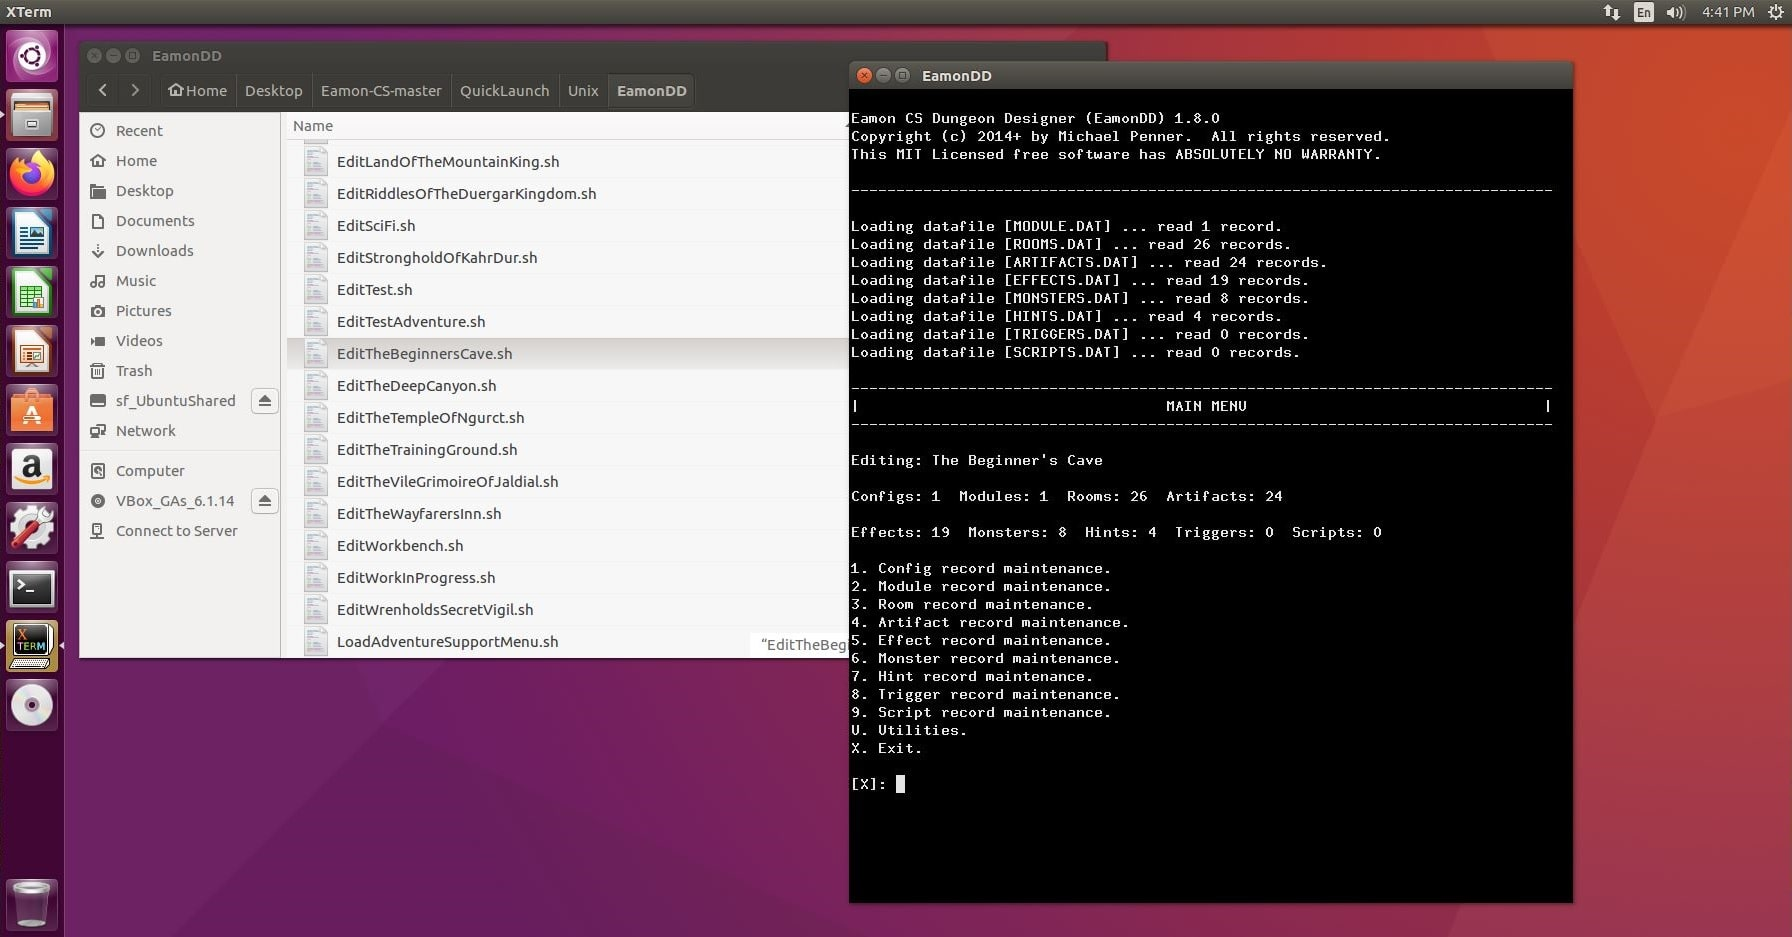
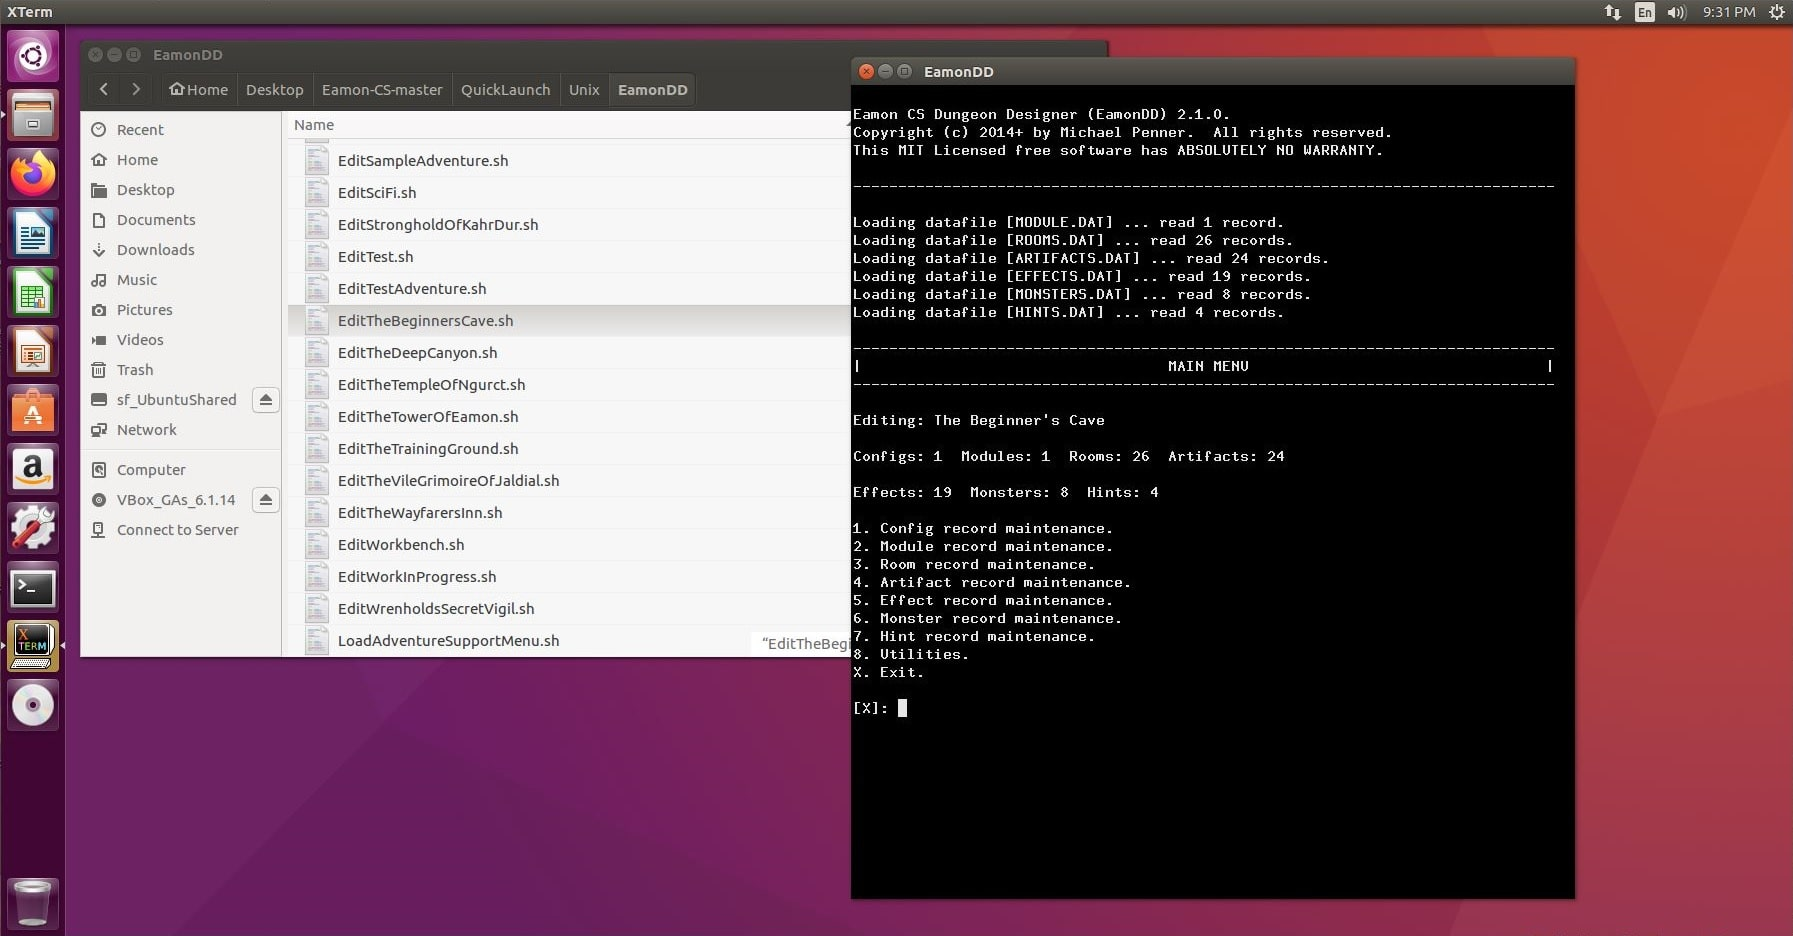
Eamon/work branch sep 2022 (#20)
* Updated VisualStudioInfo.html with new Visual Studio 2022 version 17.3.2.

* Revised TechnicalPaper.html to reflect .NET 6.0 Runtime upgrade to v6.0.8.

* Minor revision to PlayersManual.html file.

* Updated VisualStudioInfo.html with new Visual Studio 2022 version 17.3.3.

* Updated VisualStudioInfo.html with new Visual Studio 2022 version 17.3.4.

* Rolled back work on TRIGGERS and SCRIPTS.  This interesting thought experiment never crystallized and would require far more effort than reasonable given the possible benefits.  Anyone who might have taken advantage of this hypothetical functionality could implement a custom game to obtain all its benefits (and then some).  So the idea is being scrapped.

* Minor revision to Dungeon Designer's Manual.

* Recreated snapshot images to bring them up to date.

* Recreated snapshot images to bring them up to date.

* Recreated snapshot images to bring them up to date.

diff --git a/pages/VisualStudioInfo.html b/pages/VisualStudioInfo.html
@@ -8,20 +8,20 @@
        <h4>VISUAL STUDIO INFORMATION</h4>
        <pre>
 Microsoft Visual Studio Community 2022
-Version 17.2.6
-VisualStudio.17.Release/17.2.6+32630.192
+Version 17.3.4
+VisualStudio.17.Release/17.3.4+32901.215
 Microsoft .NET Framework
 Version 4.8.04084
 
 Installed Version: Community
 
-ASP.NET and Web Tools 2019   17.2.393.26812
-ASP.NET and Web Tools 2019
+ASP.NET and Web Tools   17.3.376.3011
+ASP.NET and Web Tools
 
-Azure App Service Tools v3.0.0   17.2.393.26812
+Azure App Service Tools v3.0.0   17.3.376.3011
 Azure App Service Tools v3.0.0
 
-C# Tools   4.2.0-4.22281.5+8d3180e5f00d42f0f0295165f756f368f0cbfa44
+C# Tools   4.3.0-3.22423.10+b35bb0baca1071d50cc4f8cf5a1a89e7cc112461
 C# components used in the IDE. Depending on your project type and settings, a different version of the compiler may be used.
 
 Common Azure Tools   1.10
@@ -33,19 +33,22 @@ Provides common messaging-based MEF services for loosely coupled Visual Studio e
 Microsoft JVM Debugger   1.0
 Provides support for connecting the Visual Studio debugger to JDWP compatible Java Virtual Machines
 
-Mono Debugging for Visual Studio   17.2.20 (482eb2a)
+Mono Debugging for Visual Studio   17.3.20 (3f4cb00)
 Support for debugging Mono processes with Visual Studio.
 
-NuGet Package Manager   6.2.1
+NuGet Package Manager   6.3.0
 NuGet Package Manager in Visual Studio. For more information about NuGet, visit https://docs.nuget.org/
 
-TypeScript Tools   17.0.10418.2001
+Razor (ASP.NET Core)   17.0.0.2232702+e1d654e792aa2fe6646a6935bcca80ff0aff4387
+Provides languages services for ASP.NET Core Razor.
+
+TypeScript Tools   17.0.10701.2001
 TypeScript Tools for Microsoft Visual Studio
 
-Visual Basic Tools   4.2.0-4.22281.5+8d3180e5f00d42f0f0295165f756f368f0cbfa44
+Visual Basic Tools   4.3.0-3.22423.10+b35bb0baca1071d50cc4f8cf5a1a89e7cc112461
 Visual Basic components used in the IDE. Depending on your project type and settings, a different version of the compiler may be used.
 
-Visual F# Tools   17.1.0-beta.22329.1+702b8e77f5fbfe21e6743324c1750503e02f182d
+Visual F# Tools   17.1.0-beta.22363.4+1b94f89d4d1f41f20f9be73c76f4b229d4e49078
 Microsoft Visual F# Tools
 
 Visual Studio IntelliCode   2.2
@@ -60,25 +63,24 @@ Mac Extension for Visual Studio
 VSPackage Extension   1.0
 VSPackage Visual Studio Extension Detailed Info
 
-Xamarin   17.2.0.177 (d17-2@2f6c881)
+Xamarin   17.3.0.296 (d17-3@a0ff24b)
 Visual Studio extension to enable development for Xamarin.iOS and Xamarin.Android.
 
-Xamarin Designer   17.2.0.244 (remotes/origin/d17-2@197e1a0b7)
+Xamarin Designer   17.3.0.208 (remotes/origin/d17-3@e4f67afef)
 Visual Studio extension to enable Xamarin Designer tools in Visual Studio.
 
-Xamarin Templates   17.2.15 (2e3b60e)
+Xamarin Templates   17.2.28 (9b3d244)
 Templates for building iOS, Android, and Windows apps with Xamarin and Xamarin.Forms.
 
-Xamarin.Android SDK   12.3.3.3 (d17-2/4e061b7)
+Xamarin.Android SDK   13.0.0.0 (d17-3/030cd63)
 Xamarin.Android Reference Assemblies and MSBuild support.
     Mono: dffa5ab
-    Java.Interop: xamarin/java.interop/d17-2@9760f0a9
-    ProGuard: Guardsquare/proguard/v7.0.1@912d149
-    SQLite: xamarin/sqlite/3.38.2@7b1e016
-    Xamarin.Android Tools: xamarin/xamarin-android-tools/d17-2@fc3c2ac
+    Java.Interop: xamarin/java.interop/d17-3@7716ae53
+    SQLite: xamarin/sqlite/3.38.5@df4deab
+    Xamarin.Android Tools: xamarin/xamarin-android-tools/main@14076a6
 
 
-Xamarin.iOS and Xamarin.Mac SDK   15.10.0.5 (96b3edb6d)
+Xamarin.iOS and Xamarin.Mac SDK   15.12.0.2 (87f98a75e)
 Xamarin.iOS and Xamarin.Mac Reference Assemblies and MSBuild support.
         </pre>
        <h4>UPGRADING VISUAL STUDIO</h4>

diff --git a/pages/TechnicalPaper/TechnicalPaper.html b/pages/TechnicalPaper/TechnicalPaper.html
@@ -75,7 +75,7 @@
           <li>Installer option: Mobile development with .NET</li>
        </ul>
        <p>For gamers who want to play:</p>
-       <a target="_blank" href="https://dotnet.microsoft.com/en-us/download/dotnet/thank-you/runtime-6.0.7-windows-x64-installer">Microsoft .NET 6 Runtime</a>
+       <a target="_blank" href="https://dotnet.microsoft.com/en-us/download/dotnet/thank-you/runtime-6.0.9-windows-x64-installer">Microsoft .NET 6 Runtime</a>
        <p>
           Note:&nbsp; If you want to use Eamon CS with a .NET Standard 2.0 compliant runtime already on your system (that isn't .NET 6.X), see the Post-Installation Topics section for details on how to do that.
        </p>
@@ -924,18 +924,6 @@
                 <td>Hint File Name<br /></td>
                 <td>Loads a datafile with the given name containing Hint records; it is assumed empty if it doesn't exist. If the -wd flag is used, the datafile loads and saves in that directory.<br /></td>
                 <td>-hfn CLEVER_HINTS.DAT<br /></td>
-             </tr>
-             <tr>
-                <td>-trgfn [File Name]<br /></td>
-                <td>Trigger File Name<br /></td>
-                <td>Loads a datafile with the given name containing Trigger records; it is assumed empty if it doesn't exist. If the -wd flag is used, the datafile loads and saves in that directory.<br /></td>
-                <td>-trgfn TRIGGERS.DAT<br /></td>
-             </tr>
-             <tr>
-                <td>-sfn [File Name]<br /></td>
-                <td>Script File Name<br /></td>
-                <td>Loads a datafile with the given name containing Script records; it is assumed empty if it doesn't exist. If the -wd flag is used, the datafile loads and saves in that directory.<br /></td>
-                <td>-sfn SCRIPTS.DAT<br /></td>
              </tr>
              <tr>
                 <td>-gsfn [File Name]<br /></td>

diff --git a/pages/PlayersManual/PlayersManual.html b/pages/PlayersManual/PlayersManual.html
@@ -189,8 +189,8 @@
             The C# programming language seemed like the next logical step for development. Work on Eamon CS (ECS) kicked off in mid-2015, and it formally debuted in early 2017. Building ECS on this platform can potentially help it avoid the fate
             of many older Eamons. The system sits in the .NET slipstream, never needing an emulator to run. Also, as Microsoft's flagship development environment, the .NET ecosystem is vast and continues to expand; Eamon CS Mobile is an example
             of using compatible 3rd party technology. The game engine takes a toolkit approach to development, encouraging code reuse through inheritance. Many enhancements have been made to Eamon CS over the years, including multi-category
-            artifacts, a plugin-based architecture, an advanced container framework, a full-sentence parser, and utilities to convert data from previous Eamon systems. The game catalog has grown to include 13 classic and original adventures, with
-            more on the way.
+            artifacts, a plugin-based architecture, an advanced container framework, a full-sentence parser, and utilities to convert data from previous Eamon systems. As of this writing, the game catalog has grown to include 15 classic and
+            original adventures, with more on the way.
         </p>
         <p>
             It is worth noting this game system is not the only activity in Eamon these days. Two other projects should be mentioned. Keith Dechant's Eamon Remastered, found at <a href="https://eamon-remastered.com">www.eamon-remastered.com</a>, is an

diff --git a/pages/DungeonDesignersManual/DungeonDesignersManual.html b/pages/DungeonDesignersManual/DungeonDesignersManual.html
@@ -59,7 +59,7 @@
 6. Choose context menu item Batch Build => Select All => Clean
 7. Right-click on top-level Solution node Eamon.Desktop
 8. Choose context menu item Build Solution (use Debug mode if you wish to step through the game using the Debugger)
-9. Send a character into Sample Adventure using the EnterMainHallUsingCatalog .bat or .sh file and the Test Adventures Menu</pre>
+9. Send a character into Sample Adventure using an EamonMH .bat or .sh file (EnterMainHallUsingAdventures or EnterMainHallUsingCatalog)</pre>
         <br />
     </body>
 </html>

diff --git a/pages/ENHANCED_PARSER_DEMO.html b/pages/ENHANCED_PARSER_DEMO.html
@@ -25,8 +25,6 @@ Loading datafile [ARTIFACTS.DAT] ... read 47 records.
 Loading datafile [EFFECTS.DAT] ... read 27 records.
 Loading datafile [MONSTERS.DAT] ... read 4 records.
 Loading datafile [HINTS.DAT] ... read 0 records.
-Loading datafile [TRIGGERS.DAT] ... read 0 records.
-Loading datafile [SCRIPTS.DAT] ... read 0 records.
 Loading datafile [GAMESTATE.DAT] ... read 0 records.
 
 ------------------------------------------------------------------------------
